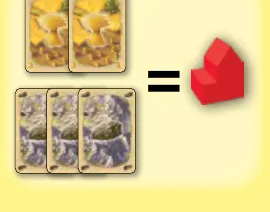
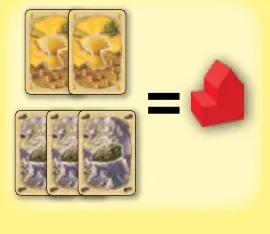
Stop cutting off the base game's illustrations.
28 crops sliced through cards, cost pictures, hexes or labels. They now
take in the whole picture; the overview map, Illustration A and the
desert are cropped to the whole hexagon with the text around it masked.
build.py read the # in bg=#… as a comment, so masks painted white; they
now take the page color, C&K's Illustration P too.

diff --git a/rulebook/base.html b/rulebook/base.html
@@ -14,7 +14,7 @@
 <li><span class="rulebook-num">4.</span> To gain more victory points, you must build new roads and settlements and upgrade your settlements to cities. Each city is worth 2 victory points. To build or upgrade, you need to acquire resources.</li>
 <li><span class="rulebook-num">5.</span> <i>How do you acquire resources? It’s simple.</i> Each turn, you roll 2 dice to determine which terrain hexes produce resources. Each terrain hex is marked with a round number token. If, for example, a “10” is rolled, all terrain hexes with a “10” number token produce resources—in the illustration on the right, those terrain hexes are a mountains hex (ore) and a hills hex (brick).</li>
 </ol>
-<figure class="rulebook-figure is-full"><button class="rulebook-zoom" type="button" aria-label="Enlarge: The starting map, with a harbor, an intersection, a path, the robber and settlements A to E marked"><img src="images/rulebook/base-overview-map.webp" alt="The starting map, with a harbor, an intersection, a path, the robber and settlements A to E marked" width="330" height="465" loading="lazy" /></button></figure>
+<figure class="rulebook-figure is-full"><button class="rulebook-zoom" type="button" aria-label="Enlarge: The starting map, with a harbor, an intersection, a path, the robber and settlements A to E marked"><img src="images/rulebook/base-overview-map.webp" alt="The starting map, with a harbor, an intersection, a path, the robber and settlements A to E marked" width="548" height="476" loading="lazy" /></button></figure>
 <ol>
 <li><span class="rulebook-num">6.</span> You only collect resources if you own a settlement or city bordering these terrain hexes. In the illustration, the red settlement [A] borders the “10” mountains and orange settlement [B] borders the “10” hills. If a “10” is rolled, the red player receives 1 ore card and the orange player receives 1 brick card.</li>
 <li><span class="rulebook-num">7.</span> Since the settlements and cities usually border on 2-3 terrain types, they can “harvest” up to 3 different resources based on the dice roll. Here, the white settlement [C] borders on forest, mountains, and pasture. A settlement at [D] would only harvest the production from 2 terrain hexes (hills and mountains). Finally, a settlement at [E] would only harvest the production from 1 terrain hex (pasture). However [E] is also at a wool harbor.</li>
@@ -73,7 +73,7 @@
 <div class="rulebook-entry-head"><h4>Starting Map for Beginners</h4><span class="rulebook-page">p. 3</span></div>
 <p><b>To make it as easy as possible for you to get started with <i>Catan</i>, we use an award-winning rules system, which consists of 3 parts—the <i>Overview</i>, the <i>Game Rules</i>, and the <i>Almanac</i>.</b></p>
 <p><b>If you’ve never played <i>Catan</i>, please read the game <i>Overview</i> first—it’s on the back cover of this booklet. Next, read the <i>Game Rules</i> and start to play. And finally, if you have questions during the game, please consult the <i>Almanac</i> (it begins on page 6).</b></p>
-<figure class="rulebook-figure is-full"><button class="rulebook-zoom" type="button" aria-label="Enlarge: Illustration A: the starting map for beginners"><img src="images/rulebook/base-illus-a.webp" alt="Illustration A: the starting map for beginners" width="452" height="508" loading="lazy" /></button></figure>
+<figure class="rulebook-figure is-full"><button class="rulebook-zoom" type="button" aria-label="Enlarge: Illustration A: the starting map for beginners"><img src="images/rulebook/base-illus-a.webp" alt="Illustration A: the starting map for beginners" width="548" height="512" loading="lazy" /></button></figure>
 <p><b>Begin the game with the resource cards produced by the settlements marked with white stars.</b> See ☆.</p>
 <h5>Odds for Dice Rolls</h5>
 <ul>
@@ -139,25 +139,25 @@
 <p>Now you can build. Through building, you can increase your <a class="rulebook-xref" href="#base-victory-points">victory points</a>, expand your road network, improve your resource production, and/or buy useful development cards. To build, you must pay specific combinations of resource cards (see the <a class="rulebook-xref" href="#base-building-costs-cards">Building Costs Card</a>). Take the appropriate number of roads, settlements, and/or cities from your supply and place them on the game board. Keep development cards hidden in your hand.</p>
 <p>You cannot build more pieces than what is available in your pool—a maximum of 5 settlements, 4 cities, and 15 roads.</p>
 <h6>a) <a class="rulebook-xref" href="#base-roads">Road</a> Requires: Brick &amp; Lumber</h6>
-<figure class="rulebook-figure is-side"><button class="rulebook-zoom" type="button" aria-label="Enlarge: Brick and lumber buy a road"><img src="images/rulebook/base-cost-road.webp" alt="Brick and lumber buy a road" width="118" height="87" loading="lazy" /></button></figure>
+<figure class="rulebook-figure is-side"><button class="rulebook-zoom" type="button" aria-label="Enlarge: Brick and lumber buy a road"><img src="images/rulebook/base-cost-road.webp" alt="Brick and lumber buy a road" width="118" height="102" loading="lazy" /></button></figure>
 <p>A new road must always connect to 1 of your existing roads, settlements, or cities. Only 1 road can be built on any given <a class="rulebook-xref" href="#base-paths">path</a>.</p>
 <p>The first player to build a continuous road (not counting forks) of at least 5 road segments receives the special card “<a class="rulebook-xref" href="#base-longest-road">Longest Road</a>.” If another player succeeds in building a longer road than the one created by the current owner of the “Longest Road” card, they immediately take the special card (and its 2 victory points). <b>Tip:</b> <i>This creates a 4 victory point swing!</i></p>
 <div class="rulebook-clear"></div>
 <h6>b) <a class="rulebook-xref" href="#base-settlements">Settlement</a> Requires: Brick, Lumber, Wool, &amp; Grain</h6>
-<figure class="rulebook-figure is-side"><button class="rulebook-zoom" type="button" aria-label="Enlarge: Brick, lumber, wool and grain buy a settlement"><img src="images/rulebook/base-cost-settlement.webp" alt="Brick, lumber, wool and grain buy a settlement" width="130" height="97" loading="lazy" /></button></figure>
+<figure class="rulebook-figure is-side"><button class="rulebook-zoom" type="button" aria-label="Enlarge: Brick, lumber, wool and grain buy a settlement"><img src="images/rulebook/base-cost-settlement.webp" alt="Brick, lumber, wool and grain buy a settlement" width="130" height="104" loading="lazy" /></button></figure>
 <p>Take special note of the “<a class="rulebook-xref" href="#base-distance-rule">Distance Rule</a>”: you may only build a settlement at an intersection if all 3 of the adjacent intersections are vacant (i.e., none are occupied by any settlements or cities—even yours).</p>
 <p>Each of your settlements must connect to at least 1 of your own roads. Regardless of whose turn it is (i.e., during any production phase), when a terrain hex produces resources, you receive 1 resource card for each settlement you have adjacent to that terrain hex.</p>
 <p>Each settlement is worth 1 victory point.</p>
 <div class="rulebook-clear"></div>
 <h6>c) <a class="rulebook-xref" href="#base-cities">City</a> Requires: 3 Ore &amp; 2 Grain</h6>
-<figure class="rulebook-figure is-side"><button class="rulebook-zoom" type="button" aria-label="Enlarge: 3 ore and 2 grain buy a city"><img src="images/rulebook/base-cost-city.webp" alt="3 ore and 2 grain buy a city" width="135" height="106" loading="lazy" /></button></figure>
+<figure class="rulebook-figure is-side"><button class="rulebook-zoom" type="button" aria-label="Enlarge: 3 ore and 2 grain buy a city"><img src="images/rulebook/base-cost-city.webp" alt="3 ore and 2 grain buy a city" width="135" height="117" loading="lazy" /></button></figure>
 <p>You may only establish a city by upgrading one of your settlements.</p>
 <p>When you upgrade a settlement to a city, put the settlement (house) piece back in your supply and replace it with a city piece (church).</p>
 <p>Cities produce twice as many resources as settlements. You acquire 2 resource cards for an adjacent terrain hex that produces resources.</p>
 <p>Each city is worth 2 victory points.</p>
 <div class="rulebook-clear"></div>
 <h6>d) Buying a <a class="rulebook-xref" href="#base-development-cards">Development Card</a> Requires: Ore, Wool, &amp; Grain</h6>
-<figure class="rulebook-figure is-side"><button class="rulebook-zoom" type="button" aria-label="Enlarge: Ore, wool and grain buy a development card"><img src="images/rulebook/base-cost-devcard.webp" alt="Ore, wool and grain buy a development card" width="137" height="118" loading="lazy" /></button></figure>
+<figure class="rulebook-figure is-side"><button class="rulebook-zoom" type="button" aria-label="Enlarge: Ore, wool and grain buy a development card"><img src="images/rulebook/base-cost-devcard.webp" alt="Ore, wool and grain buy a development card" width="137" height="124" loading="lazy" /></button></figure>
 <p>When you buy a development card, draw the top card from the deck. There are 3 different kinds of these cards: <a class="rulebook-xref" href="#base-knight-cards">knight</a>, <a class="rulebook-xref" href="#base-progress-cards">progress</a>, and <a class="rulebook-xref" href="#base-victory-point-cards">victory point</a>. Each has a different effect (see 4.b, below).</p>
 <p>Development cards never go back into the supply, and you cannot buy development cards if the supply is empty.</p>
 <p>Keep your development cards hidden (in your hand) until you use them, so your opponents can’t anticipate your play.</p>
@@ -173,16 +173,16 @@
 <p class="rulebook-note"><b>Important:</b> If the production number for the hex containing the robber is rolled, the owners of adjacent settlements and cities do not receive resources. The robber prevents it.</p>
 <h6>b) Playing <a class="rulebook-xref" href="#base-development-cards">Development Cards</a></h6>
 <p>At any time during your turn, you may play 1 development card (put it face up on the table). That card, however, may not be a card you bought during the same turn (except for a victory point card, as described below)!</p>
-<figure class="rulebook-figure is-side"><button class="rulebook-zoom" type="button" aria-label="Enlarge: Knight card: Move the robber. Steal 1 resource from the owner of a settlement or city adjacent to the robber’s new hex."><img src="images/rulebook/base-card-knight.webp" alt="Knight card: Move the robber. Steal 1 resource from the owner of a settlement or city adjacent to the robber’s new hex." width="91" height="125" loading="lazy" /></button></figure>
+<figure class="rulebook-figure is-side"><button class="rulebook-zoom" type="button" aria-label="Enlarge: Knight card: Move the robber. Steal 1 resource from the owner of a settlement or city adjacent to the robber’s new hex."><img src="images/rulebook/base-card-knight.webp" alt="Knight card: Move the robber. Steal 1 resource from the owner of a settlement or city adjacent to the robber’s new hex." width="91" height="134" loading="lazy" /></button></figure>
 <p><b><a class="rulebook-xref" href="#base-knight-cards">Knight Cards (Purple Frame)</a></b></p>
 <p>If you play a knight card, you must immediately move the robber. See “Rolling a ‘7’ and Activating the Robber” above and follow steps 1 and 2.</p>
 <p>Once played, knight cards remain face up in front of you. The first player to have 3 knight cards in front of themself receives the special card “Largest Army,” which is worth 2 victory points. If another player has more knight cards in front of them than the current holder of the Largest Army card, they immediately take the special card and its 2 victory points.</p>
 <div class="rulebook-clear"></div>
-<figure class="rulebook-figure is-side"><button class="rulebook-zoom" type="button" aria-label="Enlarge: Monopoly card: When you play this card, announce 1 type of resource. All other players must give you all of their resources of that type."><img src="images/rulebook/base-card-monopoly.webp" alt="Monopoly card: When you play this card, announce 1 type of resource. All other players must give you all of their resources of that type." width="91" height="114" loading="lazy" /></button></figure>
+<figure class="rulebook-figure is-side"><button class="rulebook-zoom" type="button" aria-label="Enlarge: Monopoly card: When you play this card, announce 1 type of resource. All other players must give you all of their resources of that type."><img src="images/rulebook/base-card-monopoly.webp" alt="Monopoly card: When you play this card, announce 1 type of resource. All other players must give you all of their resources of that type." width="91" height="134" loading="lazy" /></button></figure>
 <p><b><a class="rulebook-xref" href="#base-progress-cards">Progress Cards (Green Frame)</a></b></p>
 <p>If you play a progress card, follow its instructions. Then the card is removed from the game (i.e., toss it in the box).</p>
 <div class="rulebook-clear"></div>
-<figure class="rulebook-figure is-side"><button class="rulebook-zoom" type="button" aria-label="Enlarge: Library card: 1 Victory Point! Reveal this card on your turn if, with it, you reach the number of points required for victory."><img src="images/rulebook/base-card-library.webp" alt="Library card: 1 Victory Point! Reveal this card on your turn if, with it, you reach the number of points required for victory." width="91" height="115" loading="lazy" /></button></figure>
+<figure class="rulebook-figure is-side"><button class="rulebook-zoom" type="button" aria-label="Enlarge: Library card: 1 Victory Point! Reveal this card on your turn if, with it, you reach the number of points required for victory."><img src="images/rulebook/base-card-library.webp" alt="Library card: 1 Victory Point! Reveal this card on your turn if, with it, you reach the number of points required for victory." width="91" height="136" loading="lazy" /></button></figure>
 <p><b><a class="rulebook-xref" href="#base-victory-point-cards">Victory Point Cards (Orange Frame)</a></b></p>
 <p>You must keep victory point cards hidden. You may only reveal them during your turn and when you are sure that you have 10 victory points—that is, to win the game. Of course, you can reveal them after the end of the game if someone else wins. You may play any number of victory point cards during your turn, even during the turn you purchase them.</p>
 <div class="rulebook-clear"></div>
@@ -234,7 +234,7 @@
 <div class="rulebook-letter">D</div>
 <article class="rulebook-entry" id="base-desert" data-title="Desert">
 <div class="rulebook-entry-head"><h4>Desert</h4><span class="rulebook-page">p. 7</span></div>
-<figure class="rulebook-figure is-side"><button class="rulebook-zoom" type="button" aria-label="Enlarge: The desert hex"><img src="images/rulebook/base-desert.webp" alt="The desert hex" width="134" height="142" loading="lazy" /></button></figure>
+<figure class="rulebook-figure is-side"><button class="rulebook-zoom" type="button" aria-label="Enlarge: The desert hex"><img src="images/rulebook/base-desert.webp" alt="The desert hex" width="152" height="169" loading="lazy" /></button></figure>
 <p>The desert is the only terrain hex that does not produce resources. The <a class="rulebook-xref" href="#base-robber">robber</a> starts the game there. A settlement or a city built adjacent to the desert yields fewer resources than those built next to one of the other terrain types.</p>
 <div class="rulebook-clear"></div>
 </article>
@@ -245,7 +245,7 @@
 <p>When you buy a development card, take the top card of the draw pile into your hand. Keep your development cards hidden until you play them. This keeps the other players in the dark.</p>
 <p>You cannot trade or give away development cards.</p>
 <p>You may only play 1 development card during your turn—either 1 knight card or 1 progress card. You can play the card at any time, even before you roll the dice. You may not, however, play a card that you bought during the same turn.</p>
-<figure class="rulebook-figure is-side"><button class="rulebook-zoom" type="button" aria-label="Enlarge: The five victory point cards: Library, Market, Great Hall, Chapel and University"><img src="images/rulebook/base-vp-cards.webp" alt="The five victory point cards: Library, Market, Great Hall, Chapel and University" width="155" height="155" loading="lazy" /></button></figure>
+<figure class="rulebook-figure is-side"><button class="rulebook-zoom" type="button" aria-label="Enlarge: The five victory point cards: Library, Market, Great Hall, Chapel and University"><img src="images/rulebook/base-vp-cards.webp" alt="The five victory point cards: Library, Market, Great Hall, Chapel and University" width="155" height="182" loading="lazy" /></button></figure>
 <p class="rulebook-note"><b>Exception:</b> If you buy a card and it is a <a class="rulebook-xref" href="#base-victory-point-cards">victory point card</a> that brings you to 10 points, you may immediately reveal this card (and all other VP cards) and win the game.</p>
 <p>You only reveal victory point cards when the game is over—once you or an opponent reaches 10+ victory points and declares victory.</p>
 <div class="rulebook-clear"></div>
@@ -254,7 +254,7 @@
 <div class="rulebook-entry-head"><h4>Distance Rule</h4><span class="rulebook-page">p. 7</span></div>
 <p>You may only build a settlement on an unoccupied <a class="rulebook-xref" href="#base-intersections">intersection</a> and only if none of the 3 adjacent intersections contains a settlement or city.</p>
 <p class="rulebook-example"><b>Example:</b> See Illustration F. Coleman, the blue player, wants to build a settlement. The settlements marked “A” are already in play. Coleman cannot build on the intersections marked “B.” He can only build at intersection “C.”</p>
-<figure class="rulebook-figure is-full"><button class="rulebook-zoom" type="button" aria-label="Enlarge: Illustration F: settlements marked A, B and C around a group of hexes"><img src="images/rulebook/base-illus-f.webp" alt="Illustration F: settlements marked A, B and C around a group of hexes" width="367" height="235" loading="lazy" /></button></figure>
+<figure class="rulebook-figure is-full"><button class="rulebook-zoom" type="button" aria-label="Enlarge: Illustration F: settlements marked A, B and C around a group of hexes"><img src="images/rulebook/base-illus-f.webp" alt="Illustration F: settlements marked A, B and C around a group of hexes" width="367" height="241" loading="lazy" /></button></figure>
 </article>
 <article class="rulebook-entry" id="base-domestic-trade" data-title="Domestic Trade">
 <div class="rulebook-entry-head"><h4>Domestic Trade</h4><span class="rulebook-page">p. 7</span></div>
@@ -316,19 +316,19 @@
 <div class="rulebook-letter">L</div>
 <article class="rulebook-entry" id="base-largest-army" data-title="Largest Army">
 <div class="rulebook-entry-head"><h4>Largest Army</h4><span class="rulebook-page">p. 8</span></div>
-<figure class="rulebook-figure is-side"><button class="rulebook-zoom" type="button" aria-label="Enlarge: The Largest Army card: 2 Victory Points! The first player to play 3 knight cards gets this card. Another player who plays more knight cards takes this card."><img src="images/rulebook/base-card-largest-army.webp" alt="The Largest Army card: 2 Victory Points! The first player to play 3 knight cards gets this card. Another player who plays more knight cards takes this card." width="131" height="159" loading="lazy" /></button></figure>
+<figure class="rulebook-figure is-side"><button class="rulebook-zoom" type="button" aria-label="Enlarge: The Largest Army card: 2 Victory Points! The first player to play 3 knight cards gets this card. Another player who plays more knight cards takes this card."><img src="images/rulebook/base-card-largest-army.webp" alt="The Largest Army card: 2 Victory Points! The first player to play 3 knight cards gets this card. Another player who plays more knight cards takes this card." width="135" height="159" loading="lazy" /></button></figure>
 <p>If you are the first player to play 3 knight cards, you receive this special card, which is worth 2 victory points. You place the “Largest Army” card face up in front of you. If another player plays more knight cards than you have, they immediately take the special card. The 2 victory points likewise count for the new owner.</p>
 <div class="rulebook-clear"></div>
 </article>
 <article class="rulebook-entry" id="base-longest-road" data-title="Longest Road">
 <div class="rulebook-entry-head"><h4>Longest Road</h4><span class="rulebook-page">p. 9</span></div>
-<figure class="rulebook-figure is-side"><button class="rulebook-zoom" type="button" aria-label="Enlarge: The Longest Road card: 2 Victory Points! This card goes to the player with the longest road of at least 5 segments. Another player who builds a longer road takes this card."><img src="images/rulebook/base-card-longest-road.webp" alt="The Longest Road card: 2 Victory Points! This card goes to the player with the longest road of at least 5 segments. Another player who builds a longer road takes this card." width="125" height="157" loading="lazy" /></button></figure>
+<figure class="rulebook-figure is-side"><button class="rulebook-zoom" type="button" aria-label="Enlarge: The Longest Road card: 2 Victory Points! This card goes to the player with the longest road of at least 5 segments. Another player who builds a longer road takes this card."><img src="images/rulebook/base-card-longest-road.webp" alt="The Longest Road card: 2 Victory Points! This card goes to the player with the longest road of at least 5 segments. Another player who builds a longer road takes this card." width="129" height="157" loading="lazy" /></button></figure>
 <p>If you are the first player to build a continuous road of at least 5 individual road pieces, you take this special card and place it face up in front of you. This card is worth 2 victory points.</p>
 <p class="rulebook-note"><b>Note:</b> If your road network branches, you may only count the single longest branch for purposes of the longest road.</p>
 <div class="rulebook-clear"></div>
 <p>If you hold the “Longest Road” card and another player builds a longer road, they immediately take your “Longest Road” card. They also acquire the 2 bonus victory points. (Since you also lose the 2 victory points, it is a 4 point swing!)</p>
 <p class="rulebook-example"><b>Example:</b> See Illustration I. Emily, the red player, builds a continuous road with 7 wooden pieces (A–B). The branch roads (marked with arrows) are not counted. Emily snags the “Longest Road” special card.</p>
-<figure class="rulebook-figure is-full"><button class="rulebook-zoom" type="button" aria-label="Enlarge: Illustration I: a red road from A to B, broken at C by a blue settlement"><img src="images/rulebook/base-illus-i.webp" alt="Illustration I: a red road from A to B, broken at C by a blue settlement" width="338" height="315" loading="lazy" /></button></figure>
+<figure class="rulebook-figure is-full"><button class="rulebook-zoom" type="button" aria-label="Enlarge: Illustration I: a red road from A to B, broken at C by a blue settlement"><img src="images/rulebook/base-illus-i.webp" alt="Illustration I: a red road from A to B, broken at C by a blue settlement" width="343" height="315" loading="lazy" /></button></figure>
 <p>You can break an opponent’s road by building a settlement on an unoccupied intersection along that road!</p>
 <p class="rulebook-example"><b>Example:</b> In Illustration I, Coleman (the blue player) builds a settlement on intersection “C” (which is legal). This breaks Emily’s road into 2 parts. Emily must give the special card to Coleman, who now has the Longest Road (and 2 more VPs).</p>
 <p><b>Special Case:</b> If your longest road is broken and you are tied for longest road, you still keep the “Longest Road” card. However, if you no longer have the longest road, but two or more players tie for the new longest road, set the “Longest Road” card aside. Do the same if no one has a 5+ segment road. The “Longest Road” card comes into play again when only 1 player has the longest road (of at least 5 road pieces).</p>
@@ -337,7 +337,7 @@
 <article class="rulebook-entry" id="base-maritime-trade" data-title="Maritime Trade">
 <div class="rulebook-entry-head"><h4>Maritime Trade</h4><span class="rulebook-page">p. 9</span></div>
 <p>On your turn, you can trade resources using maritime trade during the trade phase even without involving another player.</p>
-<figure class="rulebook-figure is-side"><button class="rulebook-zoom" type="button" aria-label="Enlarge: 4 ore cards traded for 1 lumber card"><img src="images/rulebook/base-maritime-4to1.webp" alt="4 ore cards traded for 1 lumber card" width="125" height="82" loading="lazy" /></button></figure>
+<figure class="rulebook-figure is-side"><button class="rulebook-zoom" type="button" aria-label="Enlarge: 4 ore cards traded for 1 lumber card"><img src="images/rulebook/base-maritime-4to1.webp" alt="4 ore cards traded for 1 lumber card" width="125" height="99" loading="lazy" /></button></figure>
 <p>The most basic (and unfavorable) exchange rate is 4:1. You may trade 4 identical resource cards to the supply in exchange for 1 resource card of your choice. You do not need a <a class="rulebook-xref" href="#base-harbors">harbor</a> (settlement at a harbor location) to trade at 4:1, so when nobody wants to trade…</p>
 <div class="rulebook-clear"></div>
 <p class="rulebook-example"><b>Example:</b> Benny returns 4 ore cards to the supply and takes 1 lumber card in exchange. Normally, he should first try a more favorable trade with the other players (domestic trade).</p>
@@ -362,17 +362,17 @@
 <div class="rulebook-letter">P</div>
 <article class="rulebook-entry" id="base-paths" data-title="Paths">
 <div class="rulebook-entry-head"><h4>Paths</h4><span class="rulebook-page">p. 10</span></div>
-<figure class="rulebook-figure is-side"><button class="rulebook-zoom" type="button" aria-label="Enlarge: The paths around a settlement, circled"><img src="images/rulebook/base-illus-paths.webp" alt="The paths around a settlement, circled" width="119" height="127" loading="lazy" /></button></figure>
+<figure class="rulebook-figure is-side"><button class="rulebook-zoom" type="button" aria-label="Enlarge: The paths around a settlement, circled"><img src="images/rulebook/base-illus-paths.webp" alt="The paths around a settlement, circled" width="119" height="157" loading="lazy" /></button></figure>
 <p>Paths are defined as the edges where 2 hexes and/or hexes and the frame meet. Paths run along the border of 2 terrain hexes or between a land hex and the frame. Only one <a class="rulebook-xref" href="#base-roads">road</a> can be built on any path. At each end of a path is an <a class="rulebook-xref" href="#base-intersections">intersection</a>.</p>
 <div class="rulebook-clear"></div>
 </article>
 <article class="rulebook-entry" id="base-progress-cards" data-title="Progress Cards">
 <div class="rulebook-entry-head"><h4>Progress Cards</h4><span class="rulebook-page">p. 10</span></div>
 <p>Progress cards are a type of development card. They have green frames. There are 2 each of 3 varieties:</p>
-<figure class="rulebook-figure is-side"><button class="rulebook-zoom" type="button" aria-label="Enlarge: Road Building card: Place 2 new roads as if you had just built them."><img src="images/rulebook/base-card-road-building.webp" alt="Road Building card: Place 2 new roads as if you had just built them." width="77" height="94" loading="lazy" /></button></figure>
+<figure class="rulebook-figure is-side"><button class="rulebook-zoom" type="button" aria-label="Enlarge: Road Building card: Place 2 new roads as if you had just built them."><img src="images/rulebook/base-card-road-building.webp" alt="Road Building card: Place 2 new roads as if you had just built them." width="77" height="106" loading="lazy" /></button></figure>
 <p class="rulebook-indent"><b>Road Building:</b> If you play this card, you may immediately place 2 free roads on the board (according to normal building rules).</p>
 <div class="rulebook-clear"></div>
-<figure class="rulebook-figure is-side"><button class="rulebook-zoom" type="button" aria-label="Enlarge: Year of Plenty card: Take any 2 resources from the bank. Add them to your hand. They can be 2 of the same resource or 2 different resources."><img src="images/rulebook/base-card-year-of-plenty.webp" alt="Year of Plenty card: Take any 2 resources from the bank. Add them to your hand. They can be 2 of the same resource or 2 different resources." width="77" height="101" loading="lazy" /></button></figure>
+<figure class="rulebook-figure is-side"><button class="rulebook-zoom" type="button" aria-label="Enlarge: Year of Plenty card: Take any 2 resources from the bank. Add them to your hand. They can be 2 of the same resource or 2 different resources."><img src="images/rulebook/base-card-year-of-plenty.webp" alt="Year of Plenty card: Take any 2 resources from the bank. Add them to your hand. They can be 2 of the same resource or 2 different resources." width="77" height="107" loading="lazy" /></button></figure>
 <p class="rulebook-indent"><b>Year of Plenty:</b> If you play this card you may immediately take any 2 resource cards from the supply stacks. You may use these cards to build in the same turn.</p>
 <div class="rulebook-clear"></div>
 <figure class="rulebook-figure is-side"><button class="rulebook-zoom" type="button" aria-label="Enlarge: Monopoly card: When you play this card, announce 1 type of resource. All other players must give you all of their resources of that type."><img src="images/rulebook/base-card-monopoly-2.webp" alt="Monopoly card: When you play this card, announce 1 type of resource. All other players must give you all of their resources of that type." width="77" height="107" loading="lazy" /></button></figure>
@@ -383,7 +383,7 @@
 <div class="rulebook-letter">R</div>
 <article class="rulebook-entry" id="base-resource-cards-resources" data-title="Resource Cards (Resources)">
 <div class="rulebook-entry-head"><h4>Resource Cards (Resources)</h4><span class="rulebook-page">p. 10</span></div>
-<figure class="rulebook-figure is-side"><button class="rulebook-zoom" type="button" aria-label="Enlarge: The back of a resource card"><img src="images/rulebook/base-resource-cards.webp" alt="The back of a resource card" width="94" height="119" loading="lazy" /></button></figure>
+<figure class="rulebook-figure is-side"><button class="rulebook-zoom" type="button" aria-label="Enlarge: The back of a resource card"><img src="images/rulebook/base-resource-cards.webp" alt="The back of a resource card" width="94" height="141" loading="lazy" /></button></figure>
 <p>There are 5 different types of resources (see page 3): grain (from fields), brick (from hills), ore (from mountains), lumber (from forest), and wool (from pasture). These resources are represented by “resource cards.” You receive these cards as income from the resource production of these hexes. Resource production is determined by the dice roll at the beginning of each turn. You receive your income for each terrain hex adjacent to your settlements or cities every time the production number on the hex is rolled (exception: see <a class="rulebook-xref" href="#base-robber">Robber</a>).</p>
 <div class="rulebook-clear"></div>
 </article>
@@ -392,7 +392,7 @@
 <p>On your turn, you must roll the dice for the turn’s resource production. The number rolled determines which hexes produce resources. Each number appears twice—except for “2” and “12,” which only appear once.</p>
 <p>All players who have <a class="rulebook-xref" href="#base-settlements">settlements</a> or <a class="rulebook-xref" href="#base-cities">cities</a> on the hexes indicated by the roll receive the yields (resource cards) of those hexes. Each settlement produces 1 resource card and each city produces 2 resource cards.</p>
 <p class="rulebook-example"><b>Example:</b> See Illustration J. Loren, the blue player, rolls a “4.” Her settlement “A” borders a hills hex marked by the number “4,” so she takes a brick card. If settlement “A” had been a city, she would have received 2 brick cards. Bridget owns the red settlement “B” that borders on 2 hexes with the number “4”: hills and pasture. Bridget takes 1 brick card and 1 wool card from the supply stacks.</p>
-<figure class="rulebook-figure is-full"><button class="rulebook-zoom" type="button" aria-label="Enlarge: Illustration J: blue settlement A and red settlement B next to hexes numbered 4"><img src="images/rulebook/base-illus-j.webp" alt="Illustration J: blue settlement A and red settlement B next to hexes numbered 4" width="352" height="164" loading="lazy" /></button></figure>
+<figure class="rulebook-figure is-full"><button class="rulebook-zoom" type="button" aria-label="Enlarge: Illustration J: blue settlement A and red settlement B next to hexes numbered 4"><img src="images/rulebook/base-illus-j.webp" alt="Illustration J: blue settlement A and red settlement B next to hexes numbered 4" width="352" height="172" loading="lazy" /></button></figure>
 <p>It is possible that during the game there will not be enough resources in the bank to supply all of the yields. If there are not enough resource cards to give every player all the production they earn, then no player receives any of that resource that turn. <b>Exception:</b> If the shortage of resource cards only affects a single player, give that player as many of these resources as are left in the supply, and any extras are lost. In either case, production of other types of resources is not affected.</p>
 </article>
 <article class="rulebook-entry" id="base-resource-trade" data-title="Resource Trade">
@@ -412,7 +412,7 @@
 </article>
 <article class="rulebook-entry" id="base-robber" data-title="Robber">
 <div class="rulebook-entry-head"><h4>Robber</h4><span class="rulebook-page">p. 11</span></div>
-<figure class="rulebook-figure is-side"><button class="rulebook-zoom" type="button" aria-label="Enlarge: The robber on a desert hex"><img src="images/rulebook/base-robber.webp" alt="The robber on a desert hex" width="90" height="94" loading="lazy" /></button></figure>
+<figure class="rulebook-figure is-side"><button class="rulebook-zoom" type="button" aria-label="Enlarge: The robber on a desert hex"><img src="images/rulebook/base-robber.webp" alt="The robber on a desert hex" width="101" height="109" loading="lazy" /></button></figure>
 <p>The robber begins the game in the <a class="rulebook-xref" href="#base-desert">desert</a>. It is moved only by rolling a “<a class="rulebook-xref" href="#base-rolling-a-7-and-activating-the-robber">7</a>” or playing a <a class="rulebook-xref" href="#base-knight-cards">Knight</a> card.</p>
 <p>If the robber is moved to any other terrain hex, it prevents that hex from producing resources. Players with settlements and/or cities adjacent to the target terrain hex receive no resources from this hex as long as the robber is in the hex.</p>
 <figure class="rulebook-figure is-full"><button class="rulebook-zoom" type="button" aria-label="Enlarge: Illustration L: the robber moves from a fields hex to the 4 hills hex between settlements A and B"><img src="images/rulebook/base-illus-l.webp" alt="Illustration L: the robber moves from a fields hex to the 4 hills hex between settlements A and B" width="352" height="174" loading="lazy" /></button></figure>
@@ -465,7 +465,7 @@
 <p>Place the robber in the desert.</p>
 <p>The set-up phase has 2 rounds. Each player builds 1 road and 1 settlement per round.</p>
 <h5>Round One</h5>
-<figure class="rulebook-figure is-side"><button class="rulebook-zoom" type="button" aria-label="Enlarge: A first settlement and road"><img src="images/rulebook/base-round-one.webp" alt="A first settlement and road" width="130" height="119" loading="lazy" /></button></figure>
+<figure class="rulebook-figure is-side"><button class="rulebook-zoom" type="button" aria-label="Enlarge: A first settlement and road"><img src="images/rulebook/base-round-one.webp" alt="A first settlement and road" width="134" height="121" loading="lazy" /></button></figure>
 <p>Each player rolls both dice. The player who rolls highest is the starting player and begins.</p>
 <p>The starting player places a settlement on an unoccupied <a class="rulebook-xref" href="#base-intersections">intersection</a> of their choice, then places a road adjacent to this settlement.</p>
 <p>The other players then follow clockwise.</p>
@@ -488,7 +488,7 @@
 <li><span class="rulebook-num">1.</span> Randomly place the terrain tiles face up inside the frame arranged as shown in Illustration O.</li>
 </ol>
 <div class="rulebook-clear"></div>
-<figure class="rulebook-figure is-side"><button class="rulebook-zoom" type="button" aria-label="Enlarge: Illustration P: a harbor piece placed on the frame"><img src="images/rulebook/base-illus-p.webp" alt="Illustration P: a harbor piece placed on the frame" width="199" height="109" loading="lazy" /></button></figure>
+<figure class="rulebook-figure is-side"><button class="rulebook-zoom" type="button" aria-label="Enlarge: Illustration P: a harbor piece placed on the frame"><img src="images/rulebook/base-illus-p.webp" alt="Illustration P: a harbor piece placed on the frame" width="199" height="114" loading="lazy" /></button></figure>
 <ol>
 <li><span class="rulebook-num">2.</span> Now take the 9 harbor pieces (the small 5-sided pieces with ships on them) and randomly place one on top of each harbor on the frame. See Illustration P.</li>
 </ol>
@@ -496,7 +496,7 @@
 <ol>
 <li><span class="rulebook-num">3.</span> Place the 18 number tokens as shown in Illustration Q:</li>
 </ol>
-<figure class="rulebook-figure is-side"><button class="rulebook-zoom" type="button" aria-label="Enlarge: Illustration Q: the number tokens placed in a counterclockwise spiral"><img src="images/rulebook/base-illus-q.webp" alt="Illustration Q: the number tokens placed in a counterclockwise spiral" width="194" height="184" loading="lazy" /></button></figure>
+<figure class="rulebook-figure is-side"><button class="rulebook-zoom" type="button" aria-label="Enlarge: Illustration Q: the number tokens placed in a counterclockwise spiral"><img src="images/rulebook/base-illus-q.webp" alt="Illustration Q: the number tokens placed in a counterclockwise spiral" width="194" height="191" loading="lazy" /></button></figure>
 <ul>
 <li>Sort the number tokens beside the board, letter side face up.</li>
 <li>Place 1 token on each land hex. Start at a corner of the island. Place the number tokens on the terrain hexes in alphabetical order, proceeding <i>counter-clockwise</i> toward the center. Skip the desert.</li>
@@ -552,7 +552,7 @@
 <div class="rulebook-letter">V</div>
 <article class="rulebook-entry" id="base-victory-point-cards" data-title="Victory Point Cards">
 <div class="rulebook-entry-head"><h4>Victory Point Cards</h4><span class="rulebook-page">p. 14</span></div>
-<figure class="rulebook-figure is-side"><button class="rulebook-zoom" type="button" aria-label="Enlarge: The five victory point cards: Library, Market, Great Hall, Chapel and University"><img src="images/rulebook/base-vp-cards-2.webp" alt="The five victory point cards: Library, Market, Great Hall, Chapel and University" width="190" height="204" loading="lazy" /></button></figure>
+<figure class="rulebook-figure is-side"><button class="rulebook-zoom" type="button" aria-label="Enlarge: The five victory point cards: Library, Market, Great Hall, Chapel and University"><img src="images/rulebook/base-vp-cards-2.webp" alt="The five victory point cards: Library, Market, Great Hall, Chapel and University" width="190" height="216" loading="lazy" /></button></figure>
 <p>Victory point cards are <a class="rulebook-xref" href="#base-development-cards">development cards</a>, so they can be “bought.” These orange framed development cards represent important cultural achievements, represented by certain buildings.</p>
 <p>Each victory point card is worth 1 victory point. You only reveal your victory point cards when you or someone else wins the game! Keep victory point cards hidden until you have 10 points during your turn and you can declare victory. (You should also reveal them if someone else wins.)</p>
 <p class="rulebook-note"><b>Hint:</b> Again, keep your victory point cards hidden until the end of the game. Place them face down in front of you. Of course, if you have 1 or 2 unused cards face down in front of you for a long time, the other players will assume that they are victory point cards.</p>

diff --git a/tools/rulebook/build.py b/tools/rulebook/build.py
@@ -43,7 +43,8 @@ PDFS = {
 # crops.txt lines: name pdfkey page x0 y0 x1 y1   (pixels at 100 dpi)
 sizes = {}
 for line in open(os.path.join(src_dir, "crops.txt")):
-    line = line.split("#")[0].strip()
+    # A comment starts a line or follows a space, so bg=#fff48a stays a color
+    line = re.split(r"(?:^|\s)#", line)[0].strip()
     if not line:
         continue
     fields = line.split()
